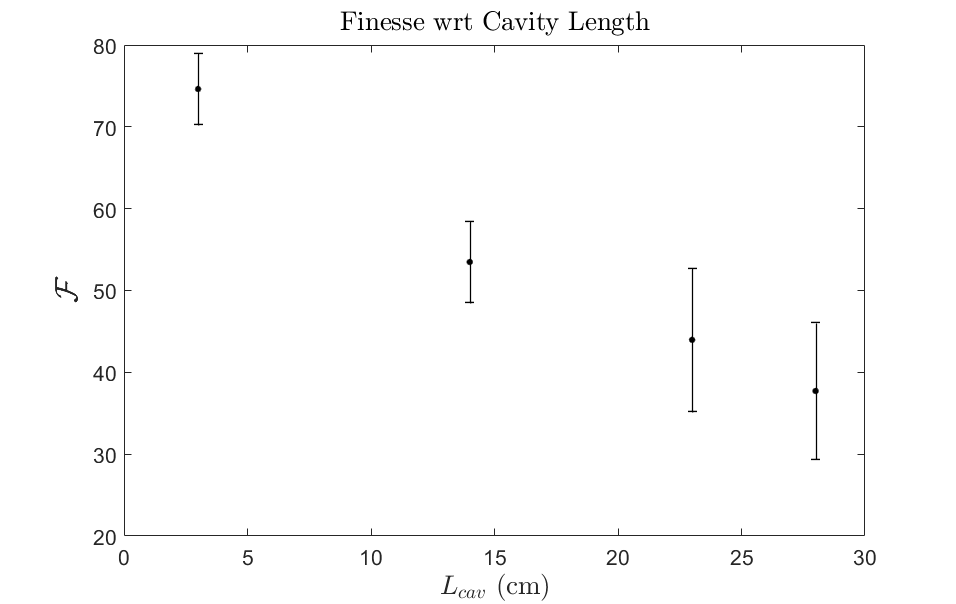
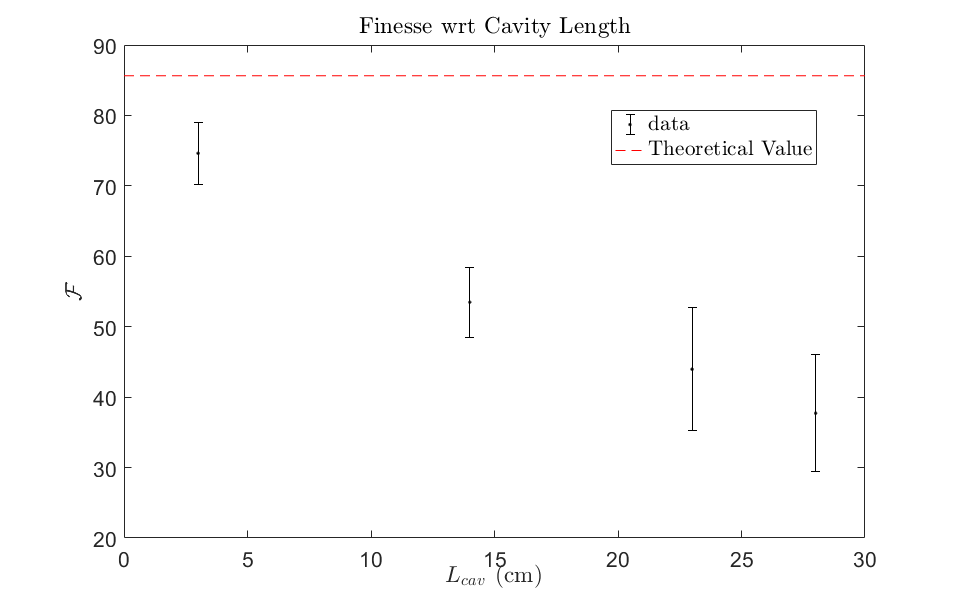
update plots
added theoretical values

diff --git a/03_lab/data/optical-cavity-day3/backup/analysis3.m b/03_lab/data/optical-cavity-day3/backup/analysis3.m
@@ -1,7 +1,10 @@
 load('finesseData.mat')
 
+expF  =85.64;
 figure
 errorbar(L,finesse,delta_fin,'k.')
+hold on;
+plot([0 30],expF*[1 1],'r--')
 title({'Finesse wrt Cavity Length'},'Interpreter','latex');
 xlabel('$L_{cav}$ (cm)','Interpreter','latex');
 ylabel('$\mathcal{F}$','Interpreter','latex');
@@ -9,9 +12,25 @@ ylabel('$\mathcal{F}$','Interpreter','latex');
 FSR = 3e8/2./(L*1e-2);
 linewidths = FSR./finesse;
 delta_linewidths = FSR./(finesse.^2).*delta_fin;
-
+x = linspace(2,30,100);
+expL = 3e8/2./(x*1e-2)/expF;
 figure
 errorbar(L,linewidths/1e6,delta_linewidths/1e6,'k.')
+hold on;
+plot(x,expL/1e6,'r--')
+
 title({'Linewidth wrt Cavity Length'},'Interpreter','latex');
+xlabel('$L_{cav}$ (cm)','Interpreter','latex');
+ylabel('Linewidth (MHz)','Interpreter','latex');
+
+q = L*1e-2/lambda_2;
+Q = q.*finesse;
+dQ = q.*delta_fin;
+expQ = x*1e-2/lambda_2*expF;
+figure
+errorbar(L,Q/1e6,dQ/1e6,'k.')
+hold on
+plot(x,expQ/1e6,'r--')
+title({'Quality wrt Cavity Length'},'Interpreter','latex');
 xlabel('$L_{cav}$ (cm)','Interpreter','latex');
 ylabel('Linewidth (MHz)','Interpreter','latex');
